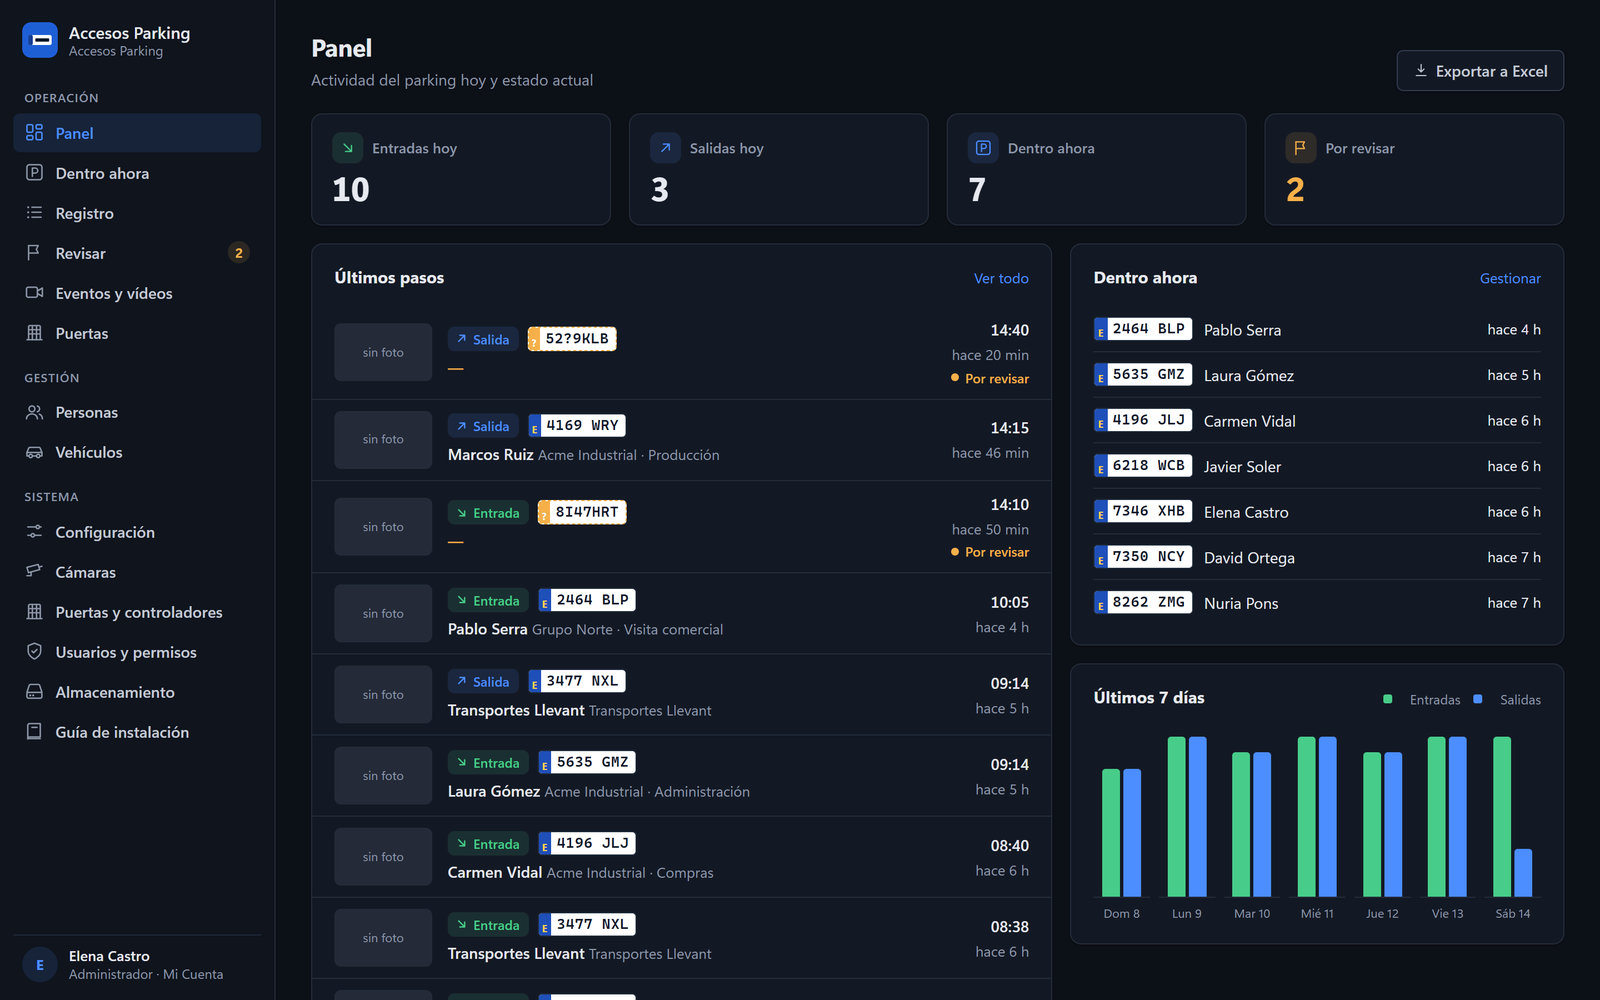
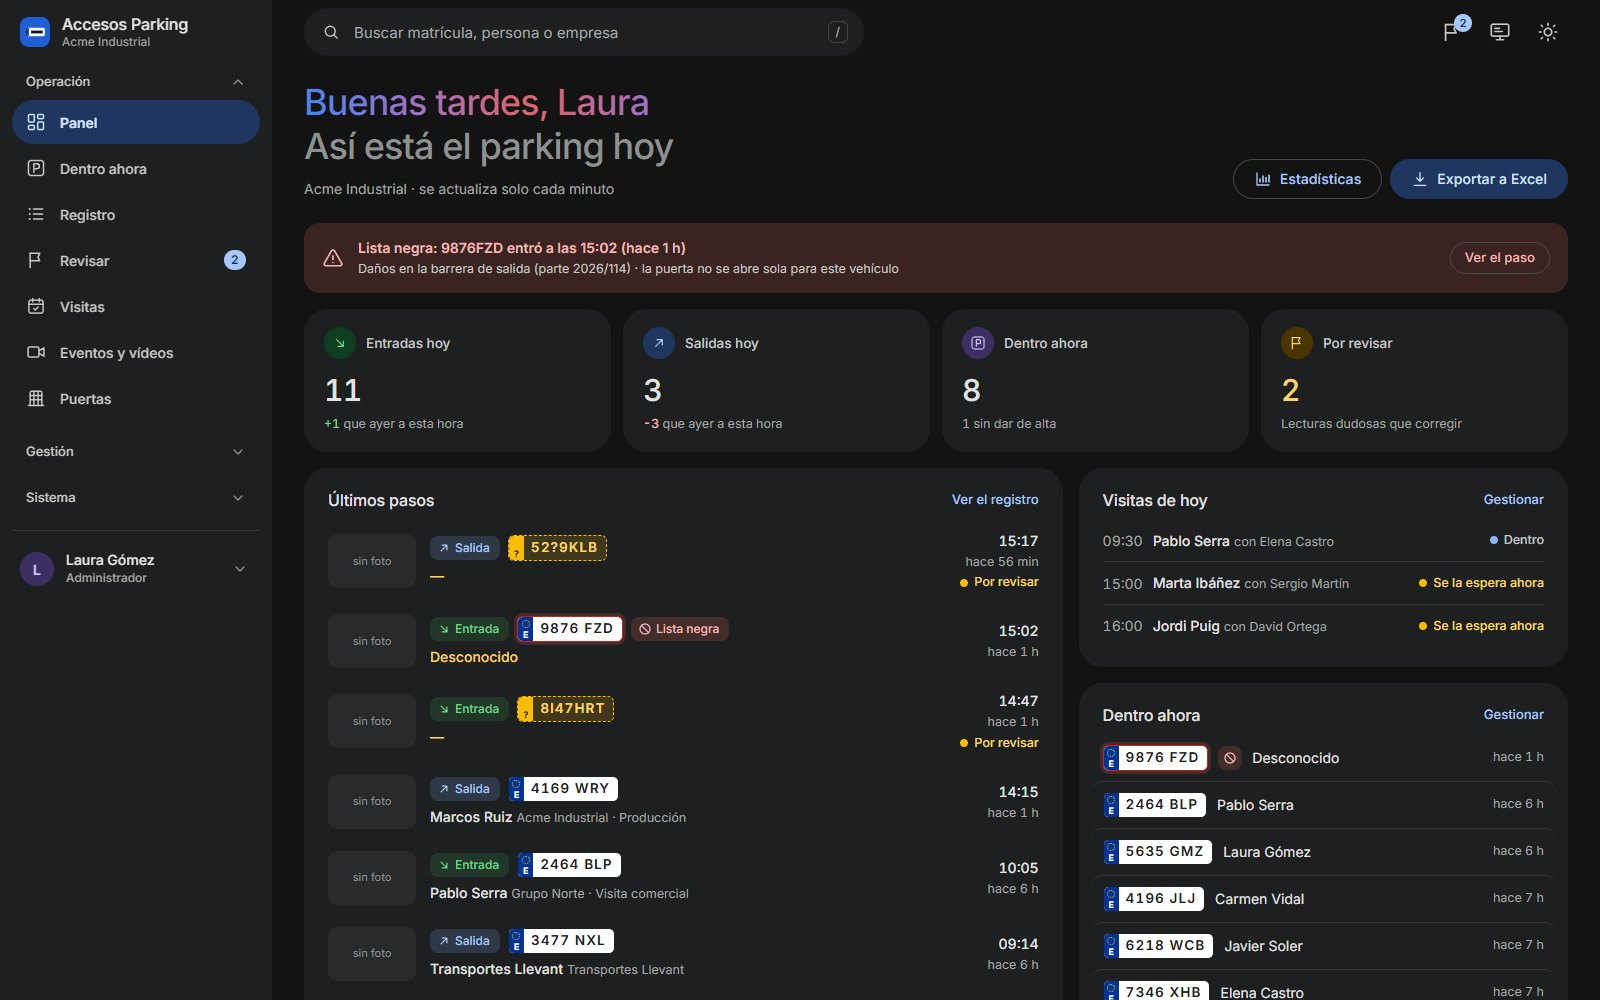
README: Accesos Parking 1.1.0 con capturas nuevas (panel oscuro y estadísticas)
Las capturas son de la interfaz nueva con datos inventados. Se añaden la búsqueda,
la lista negra, las visitas, las estadísticas, la recepción y el tema claro u oscuro.

diff --git a/README.md b/README.md
@@ -52,11 +52,11 @@ se pueden abrir solas para los vehículos autorizados.
 <table>
   <tr>
     <td width="50%"><img src="docs/img/accesos-parking-panel.jpg" alt="Panel de Accesos Parking"></td>
-    <td width="50%"><img src="docs/img/accesos-parking-registro.jpg" alt="Registro de entradas y salidas"></td>
+    <td width="50%"><img src="docs/img/accesos-parking-estadisticas.jpg" alt="Estadísticas de ocupación de Accesos Parking"></td>
   </tr>
   <tr>
-    <td align="center"><sub>Panel: actividad del día, quién está dentro y últimos 7 días</sub></td>
-    <td align="center"><sub>Registro de pasos, con filtros y exportación a Excel</sub></td>
+    <td align="center"><sub>Panel (tema oscuro): actividad del día comparada con ayer, aviso de lista negra, visitas y quién está dentro</sub></td>
+    <td align="center"><sub>Estadísticas (tema claro): horas punta, ocupación por hora y tiempo de estancia</sub></td>
   </tr>
 </table>
 
@@ -64,9 +64,14 @@ se pueden abrir solas para los vehículos autorizados.
 - **Segunda lectura**: si la cámara no lee bien la matrícula, la app la vuelve a leer en el vídeo.
 - **Personas y vehículos** por tipo (empleado, visita, proveedor…), con apertura automática de puertas por
   tipo y horario (iSmartGate / Gogogate2, Home Assistant, Tasmota o webhook).
+- **Búsqueda rápida, lista negra y visitas**: una matrícula vetada sale en rojo, avisa al entrar y la puerta
+  no se abre sola; las visitas prerregistradas no saltan como desconocidas y se sabe a quién vienen a ver.
+- **Estadísticas y pantalla de recepción**: horas punta, ocupación y estancias, y una vista a pantalla
+  completa para la garita que se actualiza sola.
 - **Avisos** por Microsoft Teams o webhook, e integración con Home Assistant.
 - **Protección de datos**: los pasos y las fotos se borran solos a los 30 días.
 - **Todo se configura desde la web**: cámaras, grabador, puertas, usuarios y una guía de instalación.
+- **Tema claro u oscuro** y adaptada al móvil, con el mismo aspecto que Hub365.
 
 **Necesita:** Hub365 2.2 o posterior (Windows o Linux), Docker para el contenedor de la app (unos 2 GB
 de RAM) y Frigate 0.14 o posterior con lectura de matrículas. → [Ficha completa](apps/accesos-parking/README.md)

diff --git a/README.en.md b/README.en.md
@@ -52,11 +52,11 @@ authorized vehicles.
 <table>
   <tr>
     <td width="50%"><img src="docs/img/accesos-parking-panel.jpg" alt="Parking Access dashboard"></td>
-    <td width="50%"><img src="docs/img/accesos-parking-registro.jpg" alt="Log of entries and exits"></td>
+    <td width="50%"><img src="docs/img/accesos-parking-estadisticas.jpg" alt="Parking Access occupancy statistics"></td>
   </tr>
   <tr>
-    <td align="center"><sub>Dashboard: today's activity, who's inside and the last 7 days</sub></td>
-    <td align="center"><sub>Passage log, with filters and Excel export</sub></td>
+    <td align="center"><sub>Dashboard (dark theme): today's activity compared with yesterday, blacklist alert, visitors and who's inside</sub></td>
+    <td align="center"><sub>Statistics (light theme): peak hours, hourly occupancy and length of stay</sub></td>
   </tr>
 </table>
 
@@ -64,9 +64,15 @@ authorized vehicles.
 - **Second reading**: if the camera misreads the plate, the app reads it again from the video.
 - **People and vehicles** by type (employee, visitor, supplier…), with automatic gate opening by type and
   hours (iSmartGate / Gogogate2, Home Assistant, Tasmota or webhook).
+- **Quick search, blacklist and visitors**: a blacklisted plate shows in red, raises an alert when it comes in
+  and the gate won't open on its own; pre-registered visitors aren't flagged as unknown and you see who
+  they're visiting.
+- **Statistics and reception screen**: peak hours, occupancy and length of stay, plus a full-screen view
+  for the gatehouse that refreshes on its own.
 - **Alerts** through Microsoft Teams or webhook, plus Home Assistant integration.
 - **Data protection**: passages and photos are deleted automatically after 30 days.
 - **Everything is set up from the web**: cameras, recorder, gates, users and an installation guide.
+- **Light or dark theme** and mobile-friendly, with the same look as Hub365.
 
 **Requires:** Hub365 2.2 or later (Windows or Linux), Docker for the app's container (about 2 GB of RAM)
 and Frigate 0.14 or later with number plate recognition. → [Full details](apps/accesos-parking/README.en.md)
